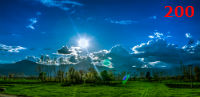
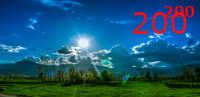
changing font

Changed region(s): [[0.66, 0.0928, 0.96, 0.4021], [0.84, 0.0619, 0.87, 0.0928]]

diff --git a/lesson6/preston.html b/lesson6/preston.html
@@ -7,11 +7,6 @@
     <title>Youngdeok-dong: JK Good Weather</title>
 
     <link rel="shortcut icon" href="favicon.ico">
-<<<<<<< HEAD
-    <link href="https://fonts.googleapis.com/css?family=Merriweather&display=swap" rel="stylesheet">
-=======
-
->>>>>>> 25f30dc22ce55da12ef8febff4a7de8f54136e9b
     <link rel="stylesheet" href="css/normalize.css">
     <link rel="stylesheet" href="css/small.css">
     <link rel="stylesheet" href="css/medium.css">
@@ -19,10 +14,7 @@
 
 
     <script type="text/javascript" src="js/menuToggle.js" defer></script>
-<<<<<<< HEAD
-=======
     <scritp src="js/windchil.js"></scritp>
->>>>>>> 25f30dc22ce55da12ef8febff4a7de8f54136e9b
 
 </head>
 
@@ -90,9 +82,11 @@
 
                 <div class="container">
                     <div id="banner">
-                        <img src="images/hero.jpg" id="hero" alt="hero" sizes="50vw" srcset="images/preston200.jpg 200w,
-                                    images/preston500.jpg 500w,
-                                    images/preston800.jpg 800w">
+                        <picture>
+                            <img src="images/preston200.jpg" alt="hero" sizes="100vw" srcset="images/preston200.jpg 300w,
+                                    images/preston500.jpg 800w,
+                                    images/preston800.jpg 1400w">
+                        </picture>
                     </div>
                     <div class="text-block">
                         <h3>Weather Summary</h3>
@@ -217,29 +211,28 @@
             </footer>
         </div>
     </div>
-<<<<<<< HEAD
-=======
-    <script src="https://ajax.googleapis.com/ajax/libs/webfont/1.6.26/webfont.js"></script>
-    <script>
-        WebFont.load({
-            google: {
-                family: ["Merriweather"]
-            }
-        });
-    </script>
-    <script>
-        const t = parseFloat(document.getElementById('temp').textContent);
-        const s = parseFloat(document.getElementById('wind').textContent);
-        let x = 35.74 + (0.6215 * t) - (35.75 * Math.pow(s, 0.16)) + (0.4275 * t * Math.pow(s, 0.16));
-        x = Math.round(x);
+    <<<<<<< HEAD=======<script src="https://ajax.googleapis.com/ajax/libs/webfont/1.6.26/webfont.js">
+        </script>
+        <script>
+            WebFont.load({
+                google: {
+                    family: ["Merriweather"]
+                }
+            });
+        </script>
+        <script>
+            const t = parseFloat(document.getElementById('temp').textContent);
+            const s = parseFloat(document.getElementById('wind').textContent);
+            let x = 35.74 + (0.6215 * t) - (35.75 * Math.pow(s, 0.16)) + (0.4275 * t * Math.pow(s, 0.16));
+            x = Math.round(x);
 
-        if (t <= 50 && s > 3) {
-            document.getElementById("chill").textContent = x + "\xB0F";
-        } else {
-            document.getElementById("chill").textContent = "N/A";
-        }
-    </script>
->>>>>>> 25f30dc22ce55da12ef8febff4a7de8f54136e9b
+            if (t <= 50 && s > 3) {
+                document.getElementById("chill").textContent = x + "\xB0F";
+            } else {
+                document.getElementById("chill").textContent = "N/A";
+            }
+        </script>
+        >>>>>>> 25f30dc22ce55da12ef8febff4a7de8f54136e9b
 </body>
 
 </html>

diff --git a/lesson6/css/small.css b/lesson6/css/small.css
@@ -70,7 +70,7 @@ section.forecast {
     background-color: #3aa3a3;
     color: #eee;
     padding: 5px;
-    font-size: 2.5vw;
+    font-size: 2vw;
     opacity: .8;
 }
 

diff --git a/webfont.js b/webfont.js
@@ -1,1 +1,1 @@
-WebFont.load({google: {families: ["Montserra"]}});
+WebFont.load({google: {families: ["Roboto"]}});
